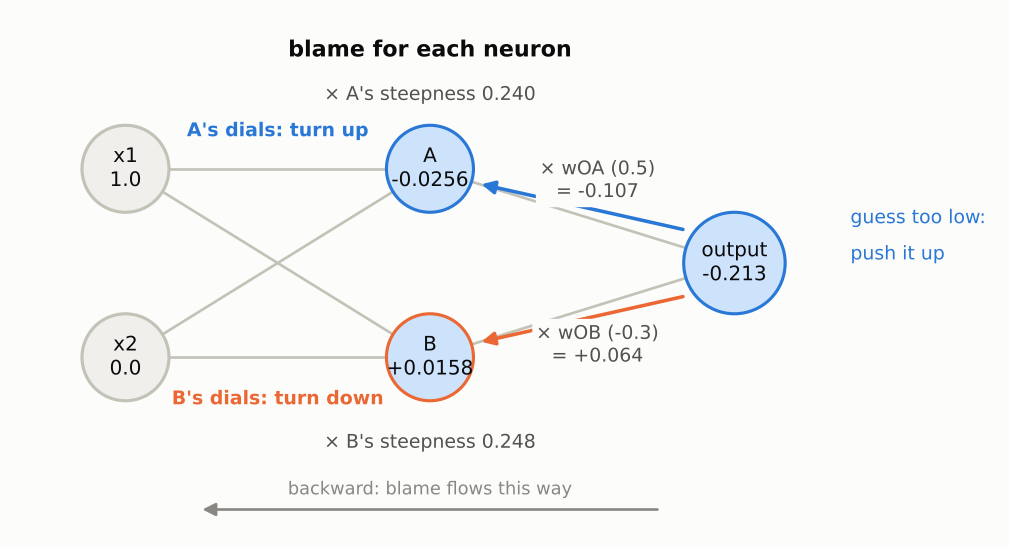
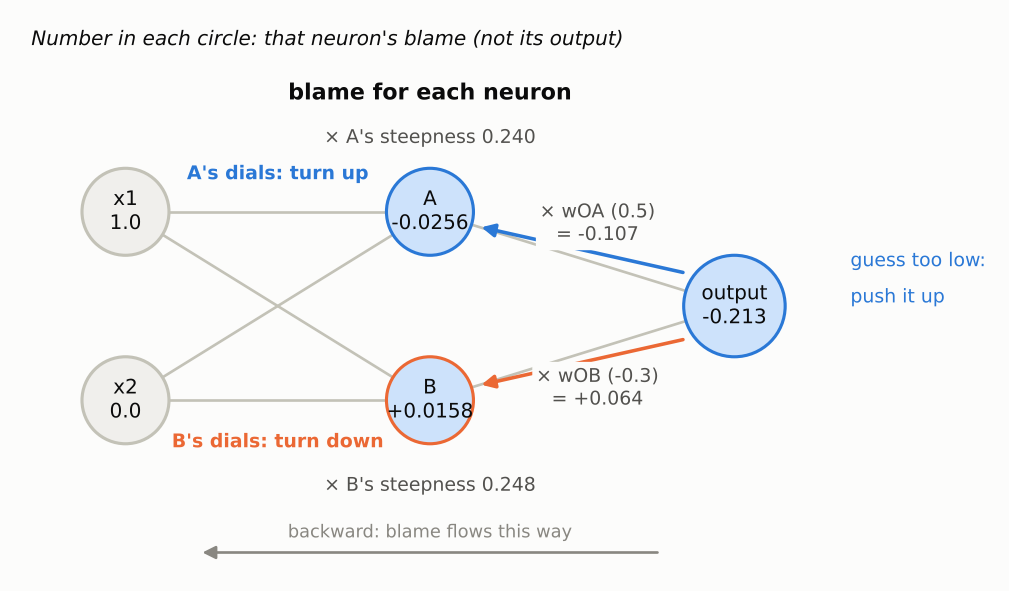
Step 3a diagrams: say what the numbers in the circles mean
The forward picture shows each neuron's output and the backward picture
shows each neuron's blame. Both now say so, and the notes point out
that it is the same card and network.

Claude-Session: https://claude.ai/code/session_0198KsRUtBDqNLAP2w7pepJc

diff --git a/scripts/make_stage2_charts.py b/scripts/make_stage2_charts.py
@@ -440,7 +440,7 @@ def diagram_network_forward() -> None:
     guess = fwd.guesses[0, 0]
     d = nw.named_dials(net)
 
-    fig, ax = blank_canvas(8.2, 4.2, (-1.4, 12.6), (-3.4, 3.3))
+    fig, ax = blank_canvas(8.2, 4.5, (-1.4, 12.6), (-3.4, 3.9))
     _network_skeleton(ax)
     node(ax, *_POS["x1"], radius=0.6, fill="#f0efec", edge=AXIS, text="x1\n1.0", size=9)
     node(ax, *_POS["x2"], radius=0.6, fill="#f0efec", edge=AXIS, text="x2\n0.0", size=9)
@@ -460,6 +460,8 @@ def diagram_network_forward() -> None:
 
     ax.text(0, 2.85, "inputs", ha="center", fontsize=10, weight="bold")
     ax.text(4.2, 2.85, "hidden layer", ha="center", fontsize=10, weight="bold")
+    ax.text(-1.3, 3.6, "Number in each circle: what that neuron outputs for this card",
+            fontsize=9, color=INK, style="italic")  # fmt: skip
     ax.text(8.4, 2.85, "output", ha="center", fontsize=10, weight="bold")
     ax.text(9.4, 0.45, "answer: 1", fontsize=9, color=INK_2)
     ax.text(9.4, -0.05, f"miss: 1 − {guess:.3f} = {1 - guess:.3f}", fontsize=9, color=INK_2)
@@ -484,7 +486,7 @@ def diagram_network_backward() -> None:
     blame_b = passed_b * out_b * (1 - out_b)
     up, down = SERIES[0], SERIES[1]
 
-    fig, ax = blank_canvas(7.6, 4.4, (-1.4, 11.6), (-3.6, 3.3))
+    fig, ax = blank_canvas(7.6, 4.7, (-1.4, 11.6), (-3.6, 3.9))
     _network_skeleton(ax)
     node(ax, *_POS["x1"], radius=0.6, fill="#f0efec", edge=AXIS, text="x1\n1.0", size=9)
     node(ax, *_POS["x2"], radius=0.6, fill="#f0efec", edge=AXIS, text="x2\n0.0", size=9)
@@ -501,6 +503,8 @@ def diagram_network_backward() -> None:
     ax.text(4.2, -2.35, f"× B's steepness {out_b * (1 - out_b):.3f}", ha="center", va="top",
             fontsize=8.5, color=INK_2)  # fmt: skip
     ax.text(4.2, 2.85, "blame for each neuron", ha="center", fontsize=10, weight="bold")
+    ax.text(-1.3, 3.6, "Number in each circle: that neuron's blame (not its output)",
+            fontsize=9, color=INK, style="italic")  # fmt: skip
     ax.text(10.0, 0.55, "guess too low:", fontsize=8.5, color=up)
     ax.text(10.0, 0.05, "push it up", fontsize=8.5, color=up)
     ax.text(2.1, 1.75, "A's dials: turn up", ha="center", fontsize=8.5, color=up, weight="bold")

diff --git a/docs/stage-2/03a-hidden-layer-by-hand.md b/docs/stage-2/03a-hidden-layer-by-hand.md
@@ -130,7 +130,7 @@ B's blame = output blame × wOB  × B's steepness
 
 ![The same network with blame flowing backwards: the output's blame is passed to A through wOA and to B through wOB](images/03-network-backward.png)
 
-**How to read this picture.** Blame flows right to left, along the same wires the numbers flowed forward on. The number inside each neuron is its blame. Blue means "push this neuron's total up", orange means "push it down".
+**How to read this picture.** Blame flows right to left, along the same wires the numbers flowed forward on. Same network and same card as the first picture, but the number inside each neuron is now its **blame**, not its output. A's output is still 0.599; its blame is −0.0256. Blue means "push this neuron's total up", orange means "push it down".
 
 **Why A and B get opposite blame.** The guess was too low.
 - The output neuron listens to A **positively** (`wOA = +0.5`): when A says more, the guess goes up. So A should say **more**.
